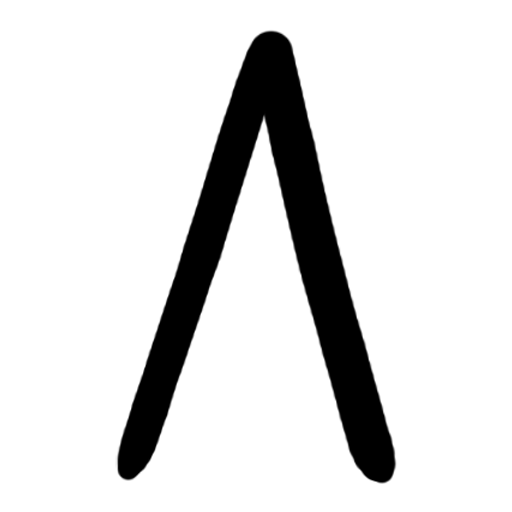
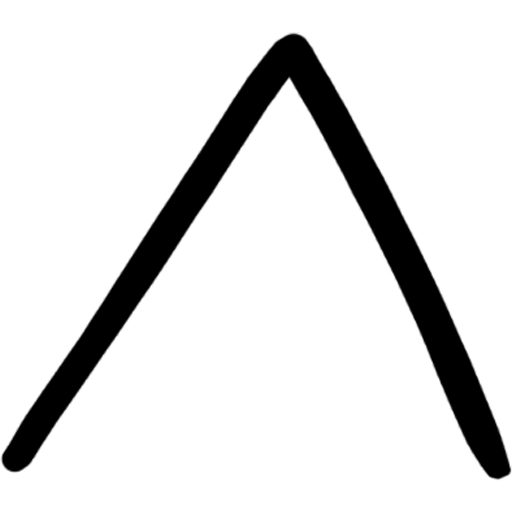
añadido el bocadillo amarillo de la guia

Changed region(s): [[0.0, 0.0625, 1.0, 0.9688]]

diff --git a/Assets/Scripts/GuideManager.cs b/Assets/Scripts/GuideManager.cs
@@ -1,6 +1,7 @@
 using System.Collections;
 using System.Collections.Generic;
 using UnityEngine;
+using UnityEngine.UI;
 
 public class GuideManager : MonoBehaviour {
     public List<string> guide = new List<string>();
@@ -75,10 +76,20 @@ public class GuideManager : MonoBehaviour {
             if (clockwise)
             {
                 arrows[i].GetComponent<SpriteRenderer>().sprite = Resources.Load("Arrow", typeof(Sprite)) as Sprite;
+                Image guideTextBox = GameObject.FindGameObjectWithTag("GuideTextBox").GetComponent<Image>();
+                if(guideTextBox.enabled == true)
+                {
+                    guideTextBox.enabled = false;
+                }
             }
             else
             {
                 arrows[i].GetComponent<SpriteRenderer>().sprite = Resources.Load("Arrowcc", typeof(Sprite)) as Sprite;
+                Image guideTextBox = GameObject.FindGameObjectWithTag("GuideTextBox").GetComponent<Image>();
+                if (guideTextBox.enabled == false)
+                {
+                    guideTextBox.enabled = true;
+                }
             }
         }
     }

diff --git a/Assets/PDollar/Scripts/PDollarGestureRecognizer/PointCloudRecognizer.cs b/Assets/PDollar/Scripts/PDollarGestureRecognizer/PointCloudRecognizer.cs
@@ -90,8 +90,14 @@ namespace PDollarGestureRecognizer
                     gestureClass = template.Name;
                 }
             }
+            float score = Mathf.Max((minDistance - 2.0f) / -2.0f, 0.0f);
 
-			return gestureClass == "" ? new Result() {GestureClass = "No match", Score = 0.0f} : new Result() {GestureClass = gestureClass, Score = Mathf.Max((minDistance - 2.0f) / -2.0f, 0.0f)};
+            if (score < 0.75) //Range to classify gesture like "Invalid"
+            {
+                return gestureClass == "" ? new Result() { GestureClass = "No match", Score = 0.0f } : new Result() { GestureClass = "Invalid", Score = score };
+            }
+
+            return gestureClass == "" ? new Result() {GestureClass = "No match", Score = 0.0f} : new Result() {GestureClass = gestureClass, Score = score};
         }
 
         /// <summary>

diff --git a/Assets/Scripts/SceneManager.cs b/Assets/Scripts/SceneManager.cs
@@ -225,6 +225,7 @@ public class SceneManager : MonoBehaviour {
         if (type == 1)
         {
             form = guide.GetComponent<GuideManager>().GetNext(form);
+            guide.GetComponent<GuideManager>().ChangeClockwise();
         }
     }
 
